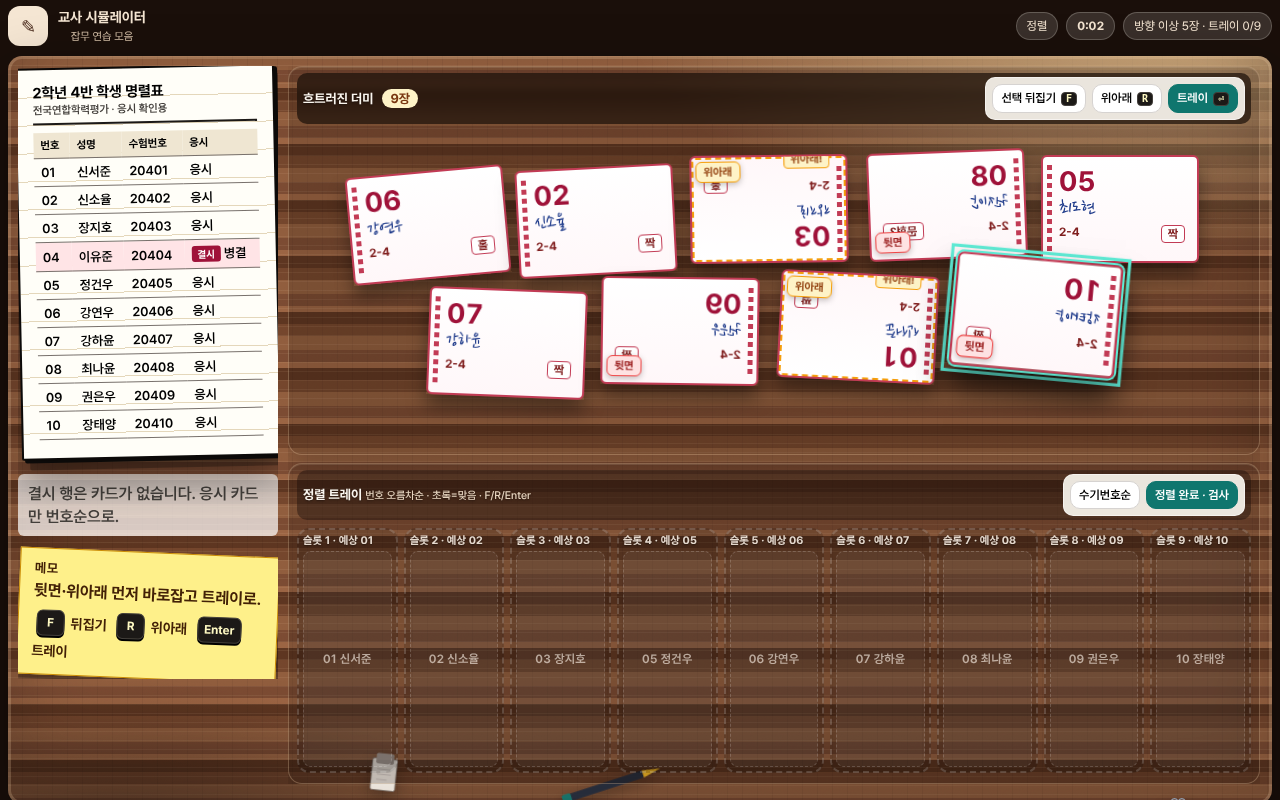
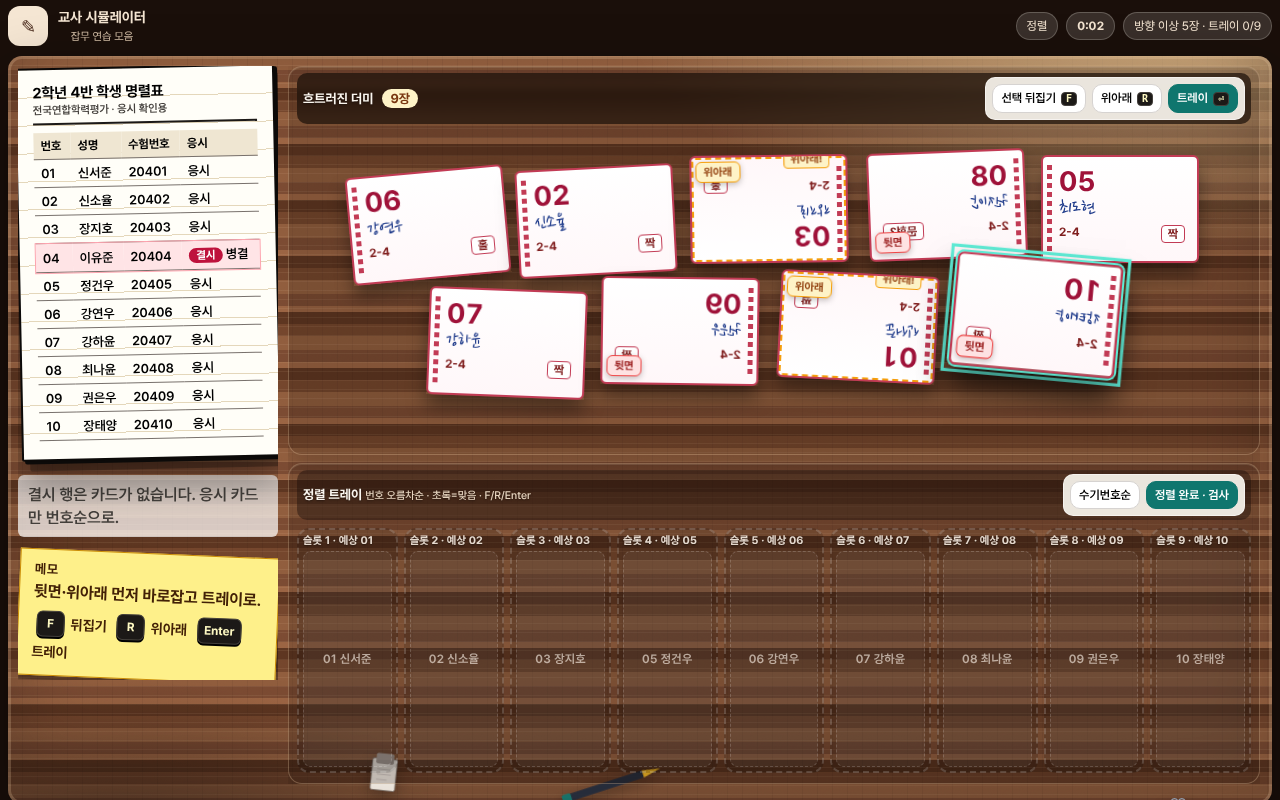
Round 0041: hub progress chips and louder absent marks
Show per-difficulty clear chips on the hub and make 결시
rows on the roster sheet harder to miss.

Changed region(s): [[0.0, 0.1562, 0.2188, 0.875]]

diff --git a/src/style.css b/src/style.css
@@ -1350,3 +1350,54 @@ kbd {
   font-size: 16px;
   font-weight: 700;
 }
+
+
+/* 0041 hub progress chips + louder absent marks */
+.hub-progress {
+  display: flex;
+  flex-wrap: wrap;
+  gap: 8px;
+  margin-top: 10px;
+}
+.hp-chip {
+  display: inline-flex;
+  align-items: center;
+  gap: 6px;
+  padding: 7px 12px;
+  border-radius: 999px;
+  font-size: 13px;
+  font-weight: 700;
+  background: #f5f5f4;
+  color: #78716c;
+  border: 1px solid #e7e5e4;
+}
+.hp-chip.done {
+  background: #ecfdf5;
+  color: #065f46;
+  border-color: #6ee7b7;
+}
+.hp-chip.done::before {
+  content: "✓";
+  font-weight: 900;
+  color: #059669;
+}
+.roster-sheet tr.absent {
+  background: #ffe4e6 !important;
+  outline: 1px solid #fda4af;
+}
+.roster-sheet .abs-mark {
+  display: inline-block;
+  padding: 1px 7px;
+  border-radius: 999px;
+  background: #be123c;
+  color: #fff;
+  font-size: 11px;
+  font-weight: 800;
+  letter-spacing: 0.02em;
+}
+.roster-sheet td {
+  font-size: 13px !important;
+}
+.roster-sheet th {
+  font-size: 12px !important;
+}

diff --git a/src/main.ts b/src/main.ts
@@ -252,6 +252,11 @@ function renderHub() {
       <span>클리어한 난이도 <b>${played}/3</b></span>
       <span>OMR 최고 <b>${Math.max(best.easy?.score ?? 0, best.normal?.score ?? 0, best.hard?.score ?? 0) || '—'}</b></span>
     </div>
+    <div class="hub-progress" aria-label="난이도별 진행">
+      <span class="hp-chip ${best.easy ? 'done' : ''}">쉬움 ${best.easy ? best.easy.score + '점' : '미클리어'}</span>
+      <span class="hp-chip ${best.normal ? 'done' : ''}">보통 ${best.normal ? best.normal.score + '점' : '미클리어'}</span>
+      <span class="hp-chip ${best.hard ? 'done' : ''}">어려움 ${best.hard ? best.hard.score + '점' : '미클리어'}</span>
+    </div>
   </div>
   <div class="game-grid">
     <button type="button" class="game-tile open" id="tile-omr">

diff --git a/docs/issues/0041-hub-progress-absent.md b/docs/issues/0041-hub-progress-absent.md
@@ -1,0 +1,10 @@
+# 0041 Hub progress chips + louder absent marks
+
+## Critique
+Hub only showed aggregate clear count; roster absent rows easy to skim past.
+
+## Fix
+Per-difficulty progress chips on hub; stronger abs-mark pill + outline on 결시 rows.
+
+## Verify
+e2e OK · viewport OK

diff --git a/docs/ROUNDLOG.md b/docs/ROUNDLOG.md
@@ -49,3 +49,6 @@
 
 ## Round 0040 (02:37 KST)
 - Headcount formula bar + larger inputs
+
+## Round 0041 (02:51 KST)
+- Hub progress chips + louder roster absent marks
